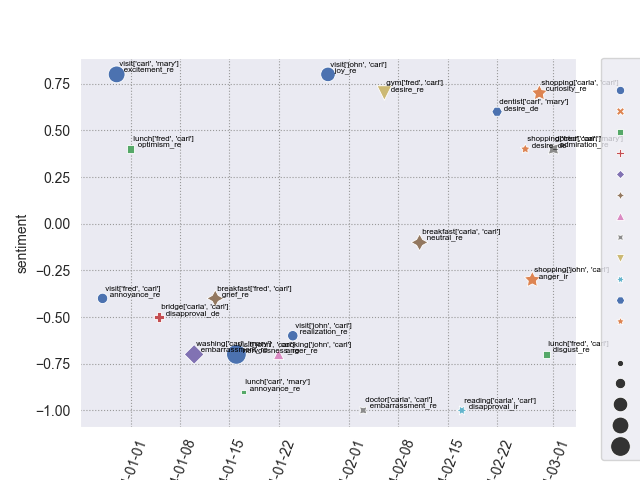
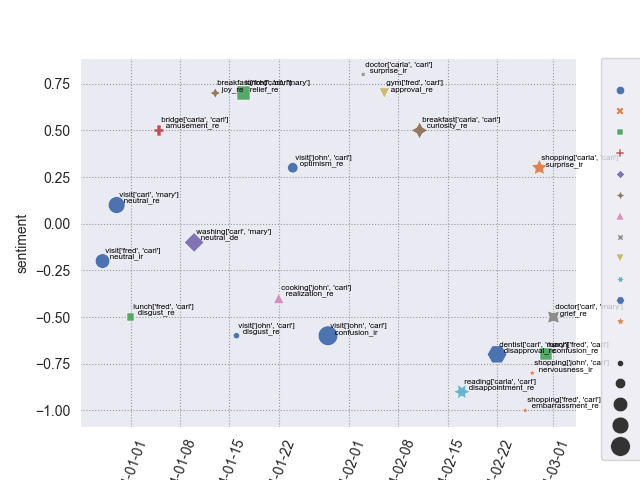
structured diary application

diff --git a/examples/generate_events.py b/examples/generate_events.py
@@ -9,33 +9,37 @@ certainties = [0, 0.2, 0.5, 0.7, 1]
 sentiments = [-1, -0.7, -0.5, 0.2, 0, 0.2, 0.5, 0.7, 1]
 polarities = [0, 0.5, 1]
 
+def create_an_event(human:str, event_date:datetime):
+    location = choice(locations)
+    activity = choice(activities)
+    friend = choice(friends)
+    certainty = choice(certainties)
+    sentiment = choice(sentiments)
+    polarity = choice(polarities)
+    event_data = {
+        "time": event_date,
+        "location": location,
+        "activity_label": activity,
+        "activity_type": "icf",
+        "actor1": human,
+        "actor2": friend,
+        "author": human,
+        "author_uri": "http://cltl.nl/leolani/n2mu/" + human,
+        "perspective": {"certainty": certainty,
+                        "sentiment": sentiment,
+                        "polarity": polarity
+                        }
+    }
+    return event_data
+
 def create_a_life(human: str, start: date, end: date, leap:int, nr:int):
     life = []
     event_date = start
     while event_date<end:
         nr_events = random.randint(1, nr)
         for i in range(nr_events):
-            location = choice(locations)
-            activity = choice(activities)
-            friend = choice(friends)
-            certainty = choice(certainties)
-            sentiment = choice(sentiments)
-            polarity = choice(polarities)
-            activity_data = {
-            "time": event_date,
-            "location": location,
-            "activity_label": activity,
-            "activity_type": "icf",
-            "actor1": human,
-            "actor2": friend,
-             "author": human,
-            "author_uri": "http://cltl.nl/leolani/n2mu/"+human,
-            "perspective": {"certainty": certainty,
-                            "sentiment": sentiment,
-                            "polarity": polarity
-                        }
-            }
-            life.append(activity_data)
+            event_data = create_an_event((human, event_date))
+            life.append(event_data)
         ### jump in time some days random from deltas
         days = random.randint(1, leap)
         event_date = event_date+timedelta(days=days)

diff --git a/examples/structured_diary.py b/examples/structured_diary.py
@@ -1,7 +1,8 @@
 from datetime import datetime
-from generate_events import create_a_life
+from generate_events import create_a_life, create_an_event
 import logging
 import os
+import pandas as pd
 from pathlib import Path
 import enum
 import json
@@ -85,9 +86,10 @@ if __name__ == "__main__":
 
     #TODO G2KMORE loop still needs to be implemented to ask for events or event properties
     ## We need to set the goal following the pseudocode for high leve beliefs, and middle and low level intents
-    #replier = LenkaReplier()
-    #g2kmore = BrainGetToKnowMore(brain, max_attempts=10, max_intention_attempts=3)
+    replier = LenkaReplier()
+    g2km = BrainGetToKnowMore(brain, max_attempts=10, max_intention_attempts=3)
 
+    event_type="icf"
     target = "carl"
     current_date = datetime.today()
 
@@ -119,3 +121,26 @@ if __name__ == "__main__":
     story_of_life = history + gap + future
     visualise_timeline.create_timeline_image(story_of_life, target, current_date)
 
+    gap_period = pd.date_range(recent_date.date(), current_date.date())
+
+    g2km.set_target_events_for_period(target, event_type, gap_period)
+    print("Set a goal for %s as a %s in state %s" % (target, type, g2km.state.name))
+
+    while not g2km.state == ConvState.REACHED and not g2km.state == ConvState.GIVEUP:
+        print('=======', g2km.state, '=======')
+        # Reply is sometimes None as the replier randomly chooses between object and subject gaps
+        response = g2km.evaluate_and_act()
+
+        if not response:
+            pass
+        elif isinstance(response, str):
+            print("Agent: ", response)
+            print('User: Some user input as reply to', response)
+        else:
+            print("Agent: ", replier.reply_to_statement(response, thought_options=["_subject_gaps"]))
+
+        # Wait for capsule event
+        if g2km.state in [ConvState.QUERY]:
+            event_date = g2km._intention["triple"]["object"]
+            event = create_an_event(target, event_date)
+            add_activity_to_ekg(brain, current_date, [event])

diff --git a/examples/visualise_timeline.py b/examples/visualise_timeline.py
@@ -13,7 +13,6 @@ def get_temporal_container(activities:[], current_date: datetime):
         elif activity['time']>latest_day:
             latest_day=activity['time']
     period = pd.date_range(earliest_day.date(), latest_day.date())
-    print(period)
     activity_in_period = []
     for date in period:
         activity_on_date = {'id':"", 'label':"None",  "time": date, "perspective": 0}
